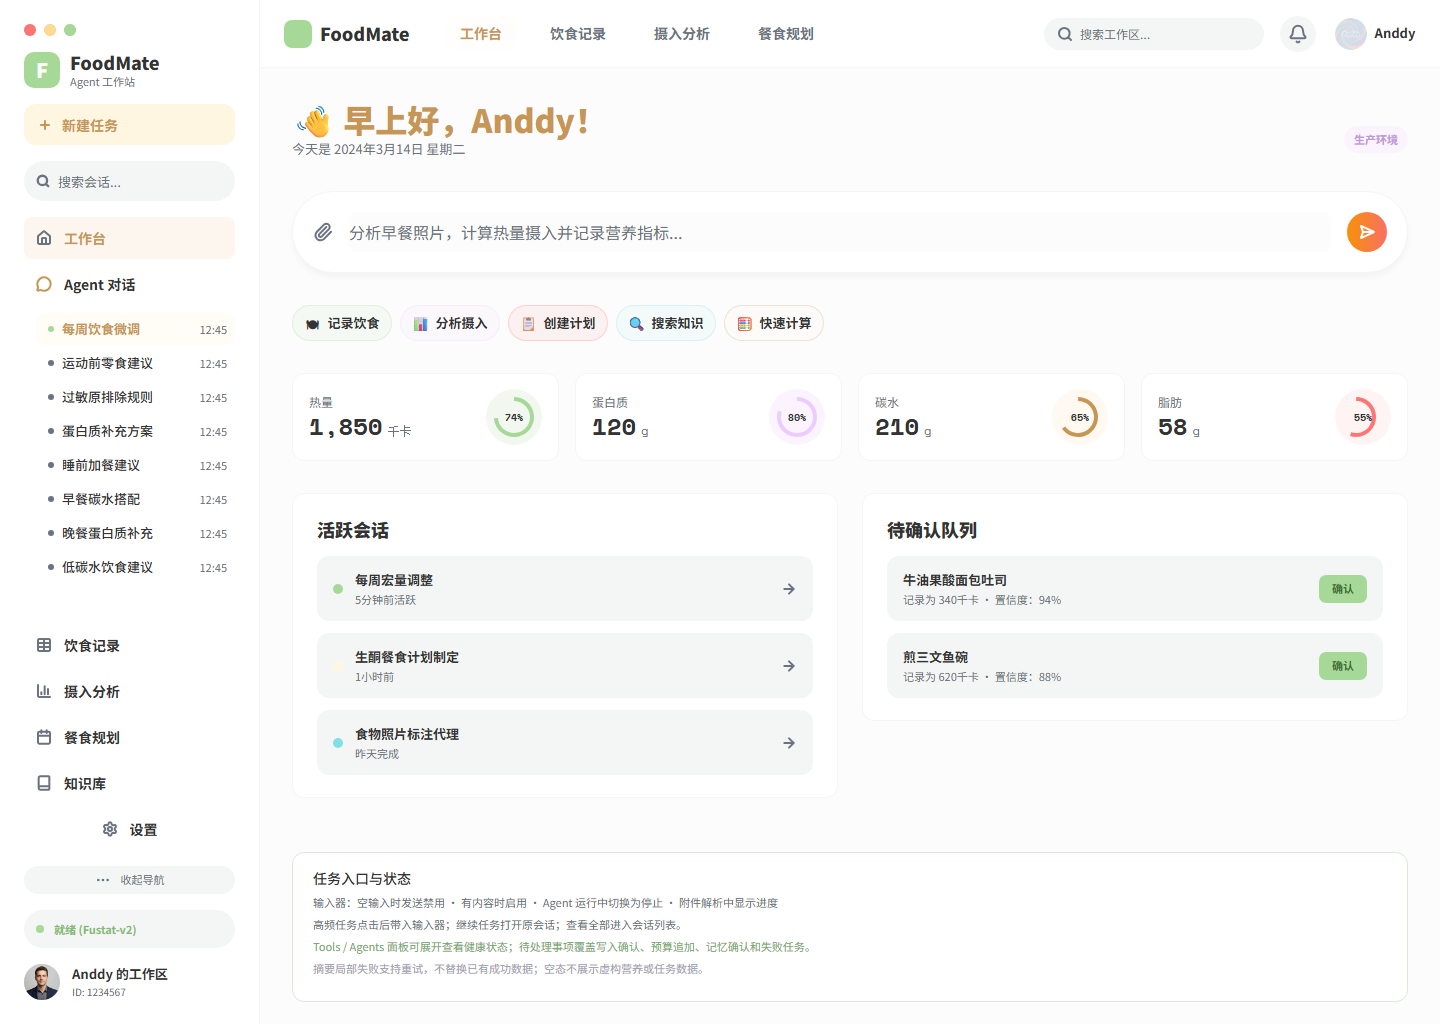
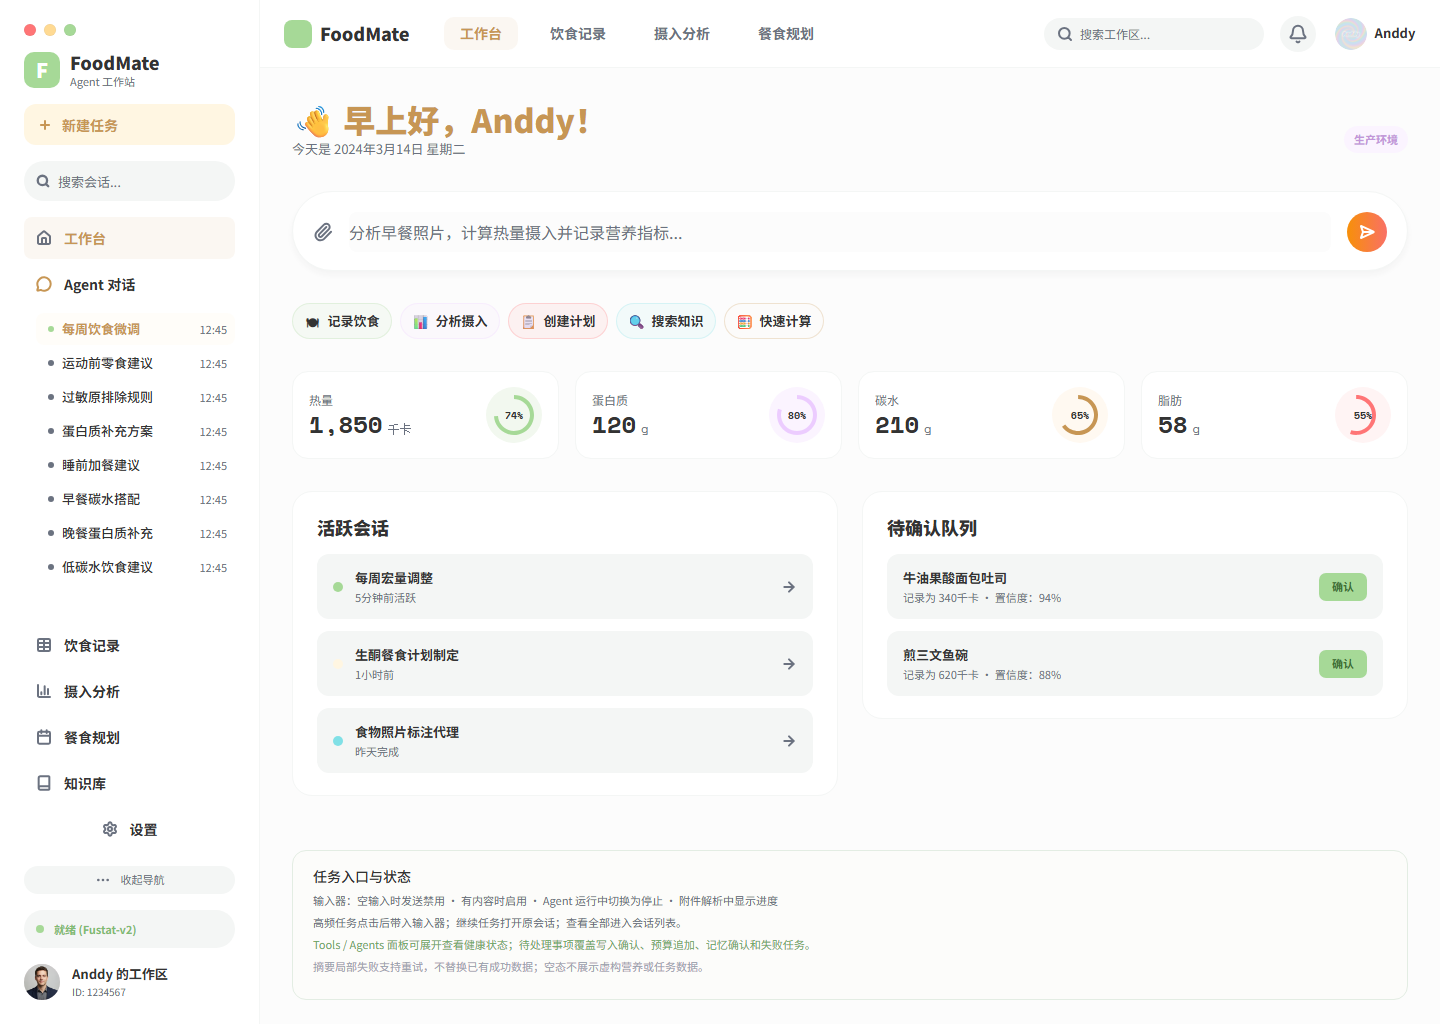
feat(ui): 收口工作区 Figma 视觉基线

diff --git a/foodmate-ui/src/layouts/WorkspaceLayout/WorkspaceLayout.module.css b/foodmate-ui/src/layouts/WorkspaceLayout/WorkspaceLayout.module.css
@@ -1,17 +1,17 @@
 .shell {
   display: grid;
-  grid-template-columns: 260px minmax(0, 1fr);
+  grid-template-columns: var(--fm-figma-workspace-sidebar-width) minmax(0, 1fr);
   width: 100%;
   height: 100dvh;
   overflow: hidden;
-  background: var(--fm-bg);
+  background: var(--fm-figma-workspace-bg);
 }
 
 /* Figma fixture 只覆盖设计稿专属的表面颜色。 */
 .figmaFixture {
-  --fm-fixture-sidebar-active-surface: #fdf6ef;
-  --fm-fixture-session-active-surface: #fffdf5;
-  --fm-fixture-top-nav-active-surface: #fffefc;
+  --fm-fixture-sidebar-active-surface: var(--fm-figma-workspace-sidebar-active);
+  --fm-fixture-session-active-surface: var(--fm-figma-workspace-session-active);
+  --fm-fixture-top-nav-active-surface: var(--fm-figma-workspace-top-nav-active);
 }
 
 /* Figma fixture 右侧轨道保持 340px 画板边界，分隔线不额外占用布局宽度。 */
@@ -61,9 +61,9 @@
 
 /* Figma 节点 640:428 使用独立的中性导航和会话选中表面。 */
 .designChat {
-  --fm-fixture-sidebar-active-surface: #fbf7f2;
-  --fm-fixture-session-active-surface: #fffcf9;
-  --fm-fixture-top-nav-active-surface: #fffefc;
+  --fm-fixture-sidebar-active-surface: var(--fm-figma-workspace-sidebar-active);
+  --fm-fixture-session-active-surface: var(--fm-figma-workspace-session-active);
+  --fm-fixture-top-nav-active-surface: var(--fm-figma-workspace-top-nav-active);
 }
 
 .figmaFixture .primarySideNav {
@@ -124,11 +124,14 @@
 }
 
 .withRail {
-  grid-template-columns: 260px minmax(0, 1fr) 320px;
+  grid-template-columns: var(--fm-figma-workspace-sidebar-width) minmax(0, 1fr) var(--fm-figma-workspace-rail-width);
 }
 
 .withWideRail {
-  grid-template-columns: 260px minmax(0, 1fr) 340px;
+  grid-template-columns:
+    var(--fm-figma-workspace-sidebar-width)
+    minmax(0, 1fr)
+    var(--fm-figma-workspace-wide-rail-width);
 }
 
 .rightRail {
@@ -136,8 +139,8 @@
   min-height: 0;
   height: 100dvh;
   overflow: hidden;
-  background: var(--fm-surface);
-  border-left: 1px solid var(--fm-border);
+  background: var(--fm-figma-workspace-surface);
+  border-left: 1px solid var(--fm-figma-workspace-border);
 }
 
 .sidebar {
@@ -146,10 +149,10 @@
   gap: 16px;
   min-height: 0;
   height: 100dvh;
-  padding: 24px;
+  padding: var(--fm-figma-workspace-padding);
   overflow: hidden;
-  background: var(--fm-surface);
-  border-right: 1px solid var(--fm-border);
+  background: var(--fm-figma-workspace-surface);
+  border-right: 1px solid var(--fm-figma-workspace-border);
 }
 
 .profileFixture {
@@ -461,7 +464,7 @@
 
 .main {
   display: grid;
-  grid-template-rows: 68px minmax(0, 1fr);
+  grid-template-rows: var(--fm-figma-workspace-topbar-height) minmax(0, 1fr);
   min-width: 0;
   min-height: 0;
   height: 100dvh;
@@ -474,9 +477,9 @@
   min-width: 0;
   align-items: center;
   gap: 24px;
-  padding: 0 24px;
-  background: var(--fm-surface);
-  border-bottom: 1px solid var(--fm-border);
+  padding: 0 var(--fm-figma-workspace-padding);
+  background: var(--fm-figma-workspace-surface);
+  border-bottom: 1px solid var(--fm-figma-workspace-border);
 }
 
 .planningListTopbar .iconButton {

diff --git a/foodmate-ui/src/pages/HomePage/HomePage.module.css b/foodmate-ui/src/pages/HomePage/HomePage.module.css
@@ -7,12 +7,26 @@
 }
 
 /* Home Figma fixture 的内部尺寸只作用于设计稿复核，不改变真实首页的交互尺寸。 */
+.figmaHomePage {
+  /* 设计稿中的工作区表面集中映射到共享 Figma Token，避免页面各自漂移。 */
+  --fm-fixture-home-bg: var(--fm-figma-workspace-bg);
+  --fm-fixture-home-surface: var(--fm-figma-workspace-surface);
+  --fm-fixture-home-border: var(--fm-figma-workspace-border);
+  --fm-fixture-home-control-surface: var(--fm-figma-workspace-control-surface);
+  background: var(--fm-fixture-home-bg);
+}
+
 .figmaHomePage .taskComposer {
   grid-template-columns: 20px minmax(0, 1fr) 40px;
+  height: 80px;
+  min-height: 80px;
   gap: 16px;
   padding: 20px;
+  box-sizing: border-box;
+  border-color: var(--fm-fixture-home-border);
   border-radius: 100px;
-  box-shadow: 0 4px 6px rgba(0, 0, 0, 0.04);
+  background: var(--fm-fixture-home-surface);
+  box-shadow: 0 4px 6px rgba(51, 51, 51, 0.04);
 }
 
 .figmaHomePage .attachmentButton {
@@ -48,6 +62,7 @@
 }
 
 .figmaHomePage .quickButton {
+  height: 36px;
   width: 100px;
   min-width: 100px;
   justify-content: center;
@@ -123,6 +138,34 @@
 
 .figmaHomePage .progress::after {
   inset: 8px;
+}
+
+.figmaHomePage .metricCard {
+  height: 88px;
+  box-sizing: border-box;
+  border-color: var(--fm-fixture-home-border);
+  border-radius: 16px;
+  background: var(--fm-fixture-home-surface);
+}
+
+.figmaHomePage .panel {
+  border-color: var(--fm-fixture-home-border);
+  border-radius: 20px;
+  background: var(--fm-fixture-home-surface);
+}
+
+.figmaHomePage .sessionCard,
+.figmaHomePage .pendingCard {
+  background: var(--fm-fixture-home-control-surface);
+}
+
+.figmaHomePage .statusPanel {
+  min-height: 150px;
+  height: 150px;
+  box-sizing: border-box;
+  border-color: #e3ede3;
+  border-radius: 14px;
+  background: #fcfcfa;
 }
 
 .intro {

diff --git a/foodmate-ui/src/pages/ChatPage/ChatPage.module.css b/foodmate-ui/src/pages/ChatPage/ChatPage.module.css
@@ -632,12 +632,27 @@
 }
 
 .designChatPage {
-  --fm-fixture-assistant-surface: #f4f6f5;
-  --fm-fixture-composer-input-surface: #fcfcfc;
+  /* Figma Chat 画板使用与工作区壳层相同的中性表面，真实模式不读取这些变量。 */
+  --fm-fixture-chat-bg: var(--fm-figma-workspace-bg);
+  --fm-fixture-chat-surface: var(--fm-figma-workspace-surface);
+  --fm-fixture-chat-border: var(--fm-figma-workspace-border);
+  --fm-fixture-chat-control-surface: var(--fm-figma-workspace-control-surface);
+  --fm-fixture-assistant-surface: var(--fm-fixture-chat-control-surface);
+  --fm-fixture-composer-input-surface: var(--fm-fixture-chat-bg);
+  background: var(--fm-fixture-chat-bg);
 }
 
 .designChatPage .assistant .messageBubble {
   background: var(--fm-fixture-assistant-surface);
+}
+
+.designChatPage .messages {
+  background: var(--fm-fixture-chat-bg);
+}
+
+.designChatPage .inlineConfirmation {
+  border-color: var(--fm-fixture-chat-border);
+  background: var(--fm-fixture-chat-surface);
 }
 
 .assistant .messageText {
@@ -907,7 +922,11 @@
   flex-direction: column;
   padding: 20px;
   overflow: hidden;
-  background: var(--fm-surface);
+  background: var(--fm-fixture-chat-surface, var(--fm-surface));
+}
+
+.designChatPage .tracePanel {
+  border-color: var(--fm-fixture-chat-border);
 }
 
 .traceTitle {

diff --git a/foodmate-ui/src/layouts/WorkspaceLayout/WorkspaceLayout.test.tsx b/foodmate-ui/src/layouts/WorkspaceLayout/WorkspaceLayout.test.tsx
@@ -111,12 +111,9 @@ describe('WorkspaceLayout shell controls', () => {
       resolve(process.cwd(), 'src/layouts/WorkspaceLayout/WorkspaceLayout.module.css'),
       'utf8',
     );
-    expect(stylesheet).toContain('--fm-fixture-sidebar-active-surface: #fbf7f2;');
-    expect(stylesheet).toContain('--fm-fixture-session-active-surface: #fffcf9;');
-    expect(stylesheet).toContain('--fm-fixture-top-nav-active-surface: #fffefc;');
-    expect(stylesheet).not.toContain('--fm-fixture-sidebar-active-surface: rgba(199, 150, 84, 0.08);');
-    expect(stylesheet).not.toContain('--fm-fixture-session-active-surface: rgba(255, 246, 226, 0.2);');
-    expect(stylesheet).not.toContain('--fm-fixture-top-nav-active-surface: #fffefa;');
+    expect(stylesheet).toContain('--fm-fixture-sidebar-active-surface: var(--fm-figma-workspace-sidebar-active);');
+    expect(stylesheet).toContain('--fm-fixture-session-active-surface: var(--fm-figma-workspace-session-active);');
+    expect(stylesheet).toContain('--fm-fixture-top-nav-active-surface: var(--fm-figma-workspace-top-nav-active);');
   });
 
   it('uses the Figma green token for design chat brand and agent marks', () => {

diff --git a/foodmate-ui/src/pages/ChatPage/ChatPage.test.tsx b/foodmate-ui/src/pages/ChatPage/ChatPage.test.tsx
@@ -144,7 +144,7 @@ describe('ChatPage Figma 默认状态', () => {
     const stylesheet = readFileSync(resolve(process.cwd(), 'src/pages/ChatPage/ChatPage.module.css'), 'utf8');
 
     expect(stylesheet).toContain('.designChatPage .assistant .messageBubble');
-    expect(stylesheet).toContain('--fm-fixture-assistant-surface: #f4f6f5;');
+    expect(stylesheet).toContain('--fm-fixture-assistant-surface: var(--fm-fixture-chat-control-surface);');
   });
 
   it('uses the Figma surface for the Composer input row in the fixture', () => {
@@ -154,7 +154,7 @@ describe('ChatPage Figma 默认状态', () => {
       'utf8',
     );
 
-    expect(pageStylesheet).toContain('--fm-fixture-composer-input-surface: #fcfcfc;');
+    expect(pageStylesheet).toContain('--fm-fixture-composer-input-surface: var(--fm-fixture-chat-bg);');
     expect(composerStylesheet).toContain('background: var(--fm-fixture-composer-input-surface, var(--fm-bg-soft));');
   });
 

diff --git a/foodmate-ui/src/styles/tokens.css b/foodmate-ui/src/styles/tokens.css
@@ -125,4 +125,18 @@
   --fm-shadow-soft: 0 8px 18px rgba(51, 51, 51, 0.05);
   --fm-font: var(--font-ui);
   --fm-font-mono: var(--font-mono);
+
+  /* Workspace Home 与 Agent Chat 的 Figma 主画板共享基准。 */
+  --fm-figma-workspace-bg: #fcfcfc;
+  --fm-figma-workspace-surface: #ffffff;
+  --fm-figma-workspace-border: #f4f6f5;
+  --fm-figma-workspace-control-surface: #f4f6f5;
+  --fm-figma-workspace-sidebar-active: rgba(199, 150, 84, 0.08);
+  --fm-figma-workspace-session-active: rgba(255, 246, 226, 0.2);
+  --fm-figma-workspace-top-nav-active: rgba(199, 150, 84, 0.08);
+  --fm-figma-workspace-sidebar-width: 260px;
+  --fm-figma-workspace-topbar-height: 68px;
+  --fm-figma-workspace-rail-width: 320px;
+  --fm-figma-workspace-wide-rail-width: 340px;
+  --fm-figma-workspace-padding: 24px;
 }

diff --git a/docxs/功能实现说明/前端已完成实现清单.md b/docxs/功能实现说明/前端已完成实现清单.md
@@ -1974,3 +1974,18 @@
 - [x] Admin 定向测试 `24/24` 通过；`npm run typecheck`、`npm run build`、`npm run lint`、`npm run format:check`、`npm run qa:figma:validate` 和 `git diff --check` 通过；Figma 结构校验保持 `structuralPass=true`、`strictDprPass=true`、`errors=[]`。
 - [ ] 6 项仍存在字体光栅化、导航图标、头像和局部内容差异，继续保持 `DIFF_REVIEW`；全量聚合仍为 `105 DIFF_REVIEW / 0 PASS / 0 UNMAPPED / 0 SIZE_MISMATCH`，不能宣称像素级 `PASS`。
 - [ ] iconfont 实体包、CSS/Unicode 映射、来源和许可证仍缺失，继续保持 `BLOCKED`。
+
+## 221. 2026-09-06 Workspace Home 与 Agent Chat 共享 Figma 视觉基线收口
+
+本节记录 Workspace Home 节点 `640:256` 与 Agent Chat 节点 `640:428` 的共享壳层视觉基线收口。本批次只处理两个受影响画板，Figma 文件保持只读，不重新验收其余 103 个画板，也不纳入后端改动。
+
+- [x] Workspace Figma 语义 Token 已集中登记背景、表面、控件表面、边框、侧栏宽度 `260px`、顶栏高度 `68px`、右侧轨道 `320px/340px` 和页面内边距 `24px`；真实业务模式不读取这些 fixture 专属 Token。
+- [x] WorkspaceLayout 已使用上述 Token 收口 Figma fixture 的侧栏、顶栏、主表面、右侧 Trace rail 和响应式列宽；Home 与 Chat 继续保留真实模式的业务结构和服务边界。
+- [x] Home fixture 已按 Figma 收口任务输入器 `80px`、指标卡 `88px`、面板圆角、边框、表面和控件背景；Chat fixture 已统一消息区、助手消息、确认卡、Composer 和 Trace rail 的中性表面与边框。
+- [x] 已重新采集 `dpr1-workspace-home-v2-browser-2026-09-06.png` 和 `dpr1-agent-chat-v2-browser-2026-09-06.png`；采集条件为 Chrome `152.0.7977.77`、`1440×1024`、DPR `1`、字体 `loaded` 和页面无横向溢出。
+- [x] Workspace Home 最新同尺寸 diff 为 `11.8524% / MAE 2.977588 / RMSE 17.700409 / maxChannelDelta 244`；Agent Chat 最新同尺寸 diff 为 `12.0520% / MAE 2.929536 / RMSE 17.357318 / maxChannelDelta 211`。
+- [x] `figma-105-mapping.json`、`figma-105-diff-results.json` 和对应浏览器 PNG 已同步到最新证据路径；105 个画板映射数量、视口、几何、文字和结构校验保持有效。
+- [x] 本批次集中验证：40 个前端测试文件、`249/249` 个用例通过；`npm run lint`、`npm run format:check`、`npm run typecheck`、`npm run build`、`npm run qa:figma:validate` 和 `git diff --check` 均通过。
+- [ ] Workspace Home 与 Agent Chat 仍存在字体光栅化、头像、图标和局部组合差异，两个画板继续为 `DIFF_REVIEW`，不能标记为像素级 `PASS`。
+- [ ] 本批次只重新验收两个受影响画板，不代表其余 103 个画板重新采集或完成全量人工视觉复核；全量聚合仍为 `105 DIFF_REVIEW / 0 PASS / 0 UNMAPPED / 0 SIZE_MISMATCH`。
+- [ ] shadcn 基础设施和控件迁移审计不等于全页面视觉收口；iconfont 实体包、完整 CSS/Unicode 映射、来源和许可证仍缺失，资源登记继续保持 `BLOCKED`。

diff --git a/docxs/功能实现说明/Figma前端像素级验收报告.md b/docxs/功能实现说明/Figma前端像素级验收报告.md
@@ -2207,3 +2207,20 @@ Figma Design 页共有 105 张顶层画板。本轮已为 105 张画板建立独
 - [x] Admin 定向测试、`npm run typecheck`、`npm run build`、`npm run lint`、`npm run format:check`、`npm run qa:figma:validate` 和 `git diff --check` 已在本批次代码完成后通过；结构校验为 `structuralPass=true`、`strictDprPass=true`、`errors=[]`。
 - [ ] 六项自动 diff 均为非零差异，底层工作区壳层仍存在字体光栅化、导航图标、头像和局部内容差异；未完成逐项像素级 `PASS`，继续保持 `DIFF_REVIEW`。
 - [ ] 本节只更新六个受影响画板的增量证据，不改变全量聚合 `105 DIFF_REVIEW / 0 PASS / 0 UNMAPPED / 0 SIZE_MISMATCH`；shadcn 全页面视觉迁移和 iconfont 资源登记仍未完成，iconfont 继续为 `BLOCKED`。
+
+## 35. 2026-09-06 Workspace Home 与 Agent Chat 共享壳层增量验收
+
+本节只记录实时 Figma 节点 `640:256`（Workspace Home）和 `640:428`（Agent Chat）的共享视觉基线收口。Figma 文件保持只读；本批次只重新采集两个受影响画板，不重新验收其余 103 个画板。
+
+| 画板 | Figma 节点 | 前端入口 | 浏览器 PNG | 视口 / DPR | 差异比例 | MAE | RMSE | 最大通道差异 | 结论 |
+|---|---|---|---|---|---:|---:|---:|---:|---|
+| Workspace Home | `640:256` | `/?state=figma-v2` | `dpr1-workspace-home-v2-browser-2026-09-06.png` | `1440×1024 / 1` | 11.8524% | 2.977588 | 17.700409 | 244 | `DIFF_REVIEW` |
+| Agent Chat | `640:428` | `/chat?state=figma-v2` | `dpr1-agent-chat-v2-browser-2026-09-06.png` | `1440×1024 / 1` | 12.0520% | 2.929536 | 17.357318 | 211 | `DIFF_REVIEW` |
+
+- [x] Workspace Figma fixture 已集中使用背景、表面、控件表面、边框、侧栏 `260px`、顶栏 `68px`、右侧轨道 `320px/340px` 和内边距 `24px` 语义 Token；真实模式不读取 fixture 专属 Token。
+- [x] Home 的任务输入器 `80px`、指标卡 `88px`、面板圆角和表面，以及 Chat 的消息区、助手消息、确认卡、Composer 和 Trace rail 表面已按当前 Figma 节点完成增量校正。
+- [x] 两项浏览器证据均由 Chrome `152.0.7977.77` 在 `1440×1024`、DPR `1`、字体 `loaded` 和页面无横向溢出条件下采集；映射和 diff JSON 已同步到 `2026-09-06`。
+- [x] 本批次集中验证 40 个前端测试文件、`249/249` 个用例通过；`npm run lint`、`npm run format:check`、`npm run typecheck`、`npm run build`、`npm run qa:figma:validate` 和 `git diff --check` 均通过。
+- [ ] 两项自动 diff 均为非零，且仍存在字体、头像、图标和局部组合差异；不能以结构校验、构建通过或截图存在替代像素级 `PASS`。
+- [ ] 本批次只复核 Workspace Home 与 Agent Chat，不代表其余 103 个画板重新采集或完成全量人工视觉复核；全量聚合继续为 `105 DIFF_REVIEW / 0 PASS / 0 UNMAPPED / 0 SIZE_MISMATCH`。
+- [ ] iconfont 实体字体包、完整 CSS/Unicode 映射、来源和许可证尚未提供，继续保持 `BLOCKED`；标准命令图标继续使用 Lucide 或已登记的 Figma SVG 资源。
